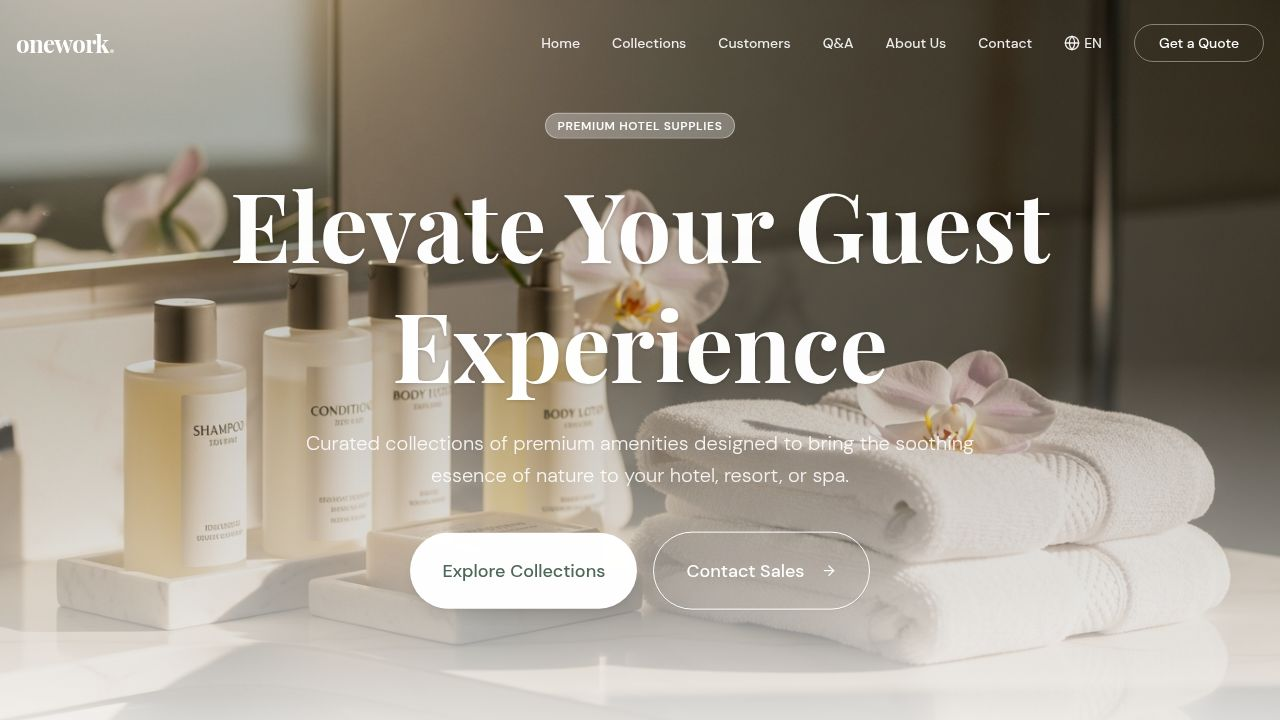
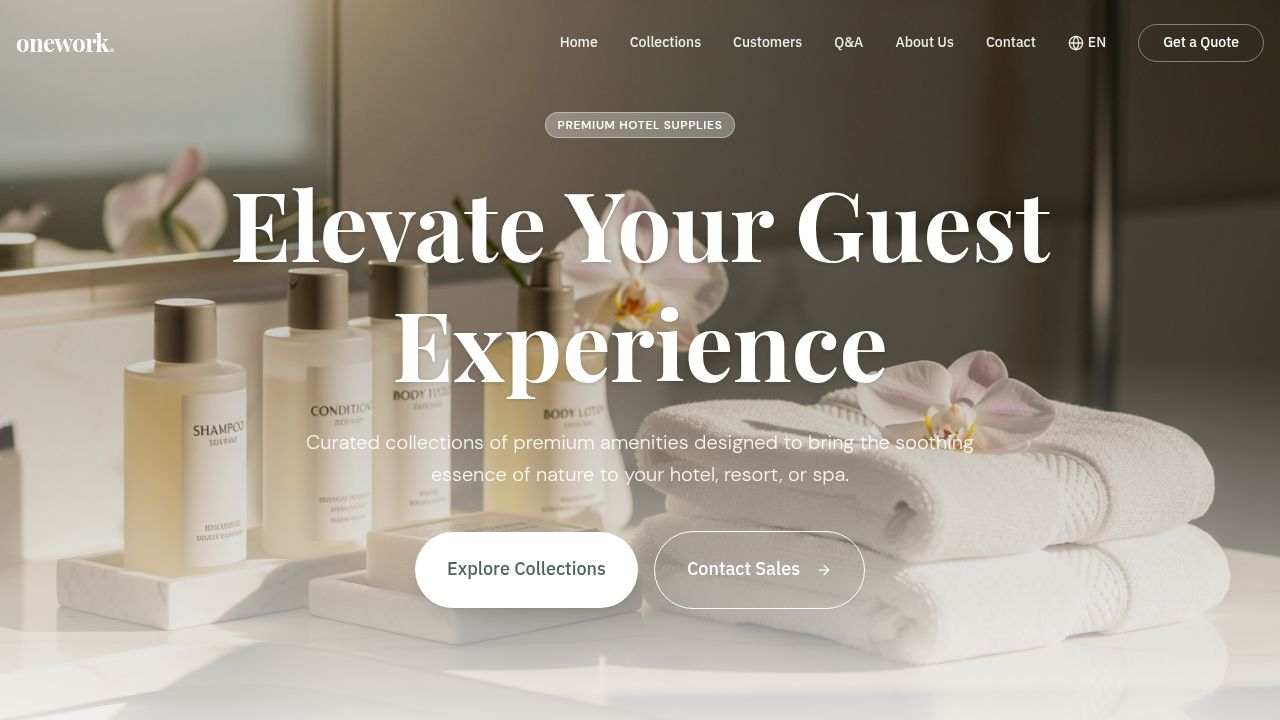
Update website to use IBM Plex Sans Thai for headings and buttons
Integrates IBM Plex Sans Thai font by updating index.html and CSS variables to apply it to headings (h1-h6), buttons, navigation links, and menu items.

Replit-Commit-Author: Agent
Replit-Commit-Session-Id: 06571250-cbba-4284-8b42-5fdc5b71abe0
Replit-Commit-Checkpoint-Type: full_checkpoint
Replit-Commit-Event-Id: ad2ff843-04dc-4d85-8a60-3306f76f9c2a
Replit-Commit-Screenshot-Url: https://storage.googleapis.com/screenshot-production-us-central1/0c67e85b-ec91-4719-aef1-3075796ce95f/06571250-cbba-4284-8b42-5fdc5b71abe0/LNZbMRZ
Replit-Helium-Checkpoint-Created: true

diff --git a/client/index.html b/client/index.html
@@ -16,8 +16,8 @@
     <link rel="icon" type="image/png" href="/favicon.png" />
     <link rel="preconnect" href="https://fonts.googleapis.com">
     <link rel="preconnect" href="https://fonts.gstatic.com" crossorigin>
-    <!-- Importing Playfair Display (Serif) for Headings and DM Sans (Sans) for Body -->
-    <link href="https://fonts.googleapis.com/css2?family=DM+Sans:ital,opsz,wght@0,9..40,100..1000;1,9..40,100..1000&family=Playfair+Display:ital,wght@0,400..900;1,400..900&display=swap" rel="stylesheet">
+    <!-- Importing IBM Plex Sans Thai for headings/buttons, DM Sans for Body -->
+    <link href="https://fonts.googleapis.com/css2?family=DM+Sans:ital,opsz,wght@0,9..40,100..1000;1,9..40,100..1000&family=IBM+Plex+Sans+Thai:wght@400;500;600;700&family=Playfair+Display:ital,wght@0,400..900;1,400..900&display=swap" rel="stylesheet">
   </head>
   <body>
     <div id="root"></div>

diff --git a/client/src/index.css b/client/src/index.css
@@ -36,6 +36,7 @@
   
   --font-sans: 'DM Sans', sans-serif;
   --font-serif: 'Playfair Display', serif;
+  --font-heading: 'IBM Plex Sans Thai', 'DM Sans', sans-serif;
   
   --radius: 0.5rem;
 }
@@ -111,6 +112,9 @@
     @apply font-sans antialiased bg-background text-foreground;
   }
   h1, h2, h3, h4, h5, h6 {
-    @apply font-serif;
+    font-family: var(--font-heading);
+  }
+  button, .btn, nav a, .menu-item, .font-heading {
+    font-family: var(--font-heading);
   }
 }
